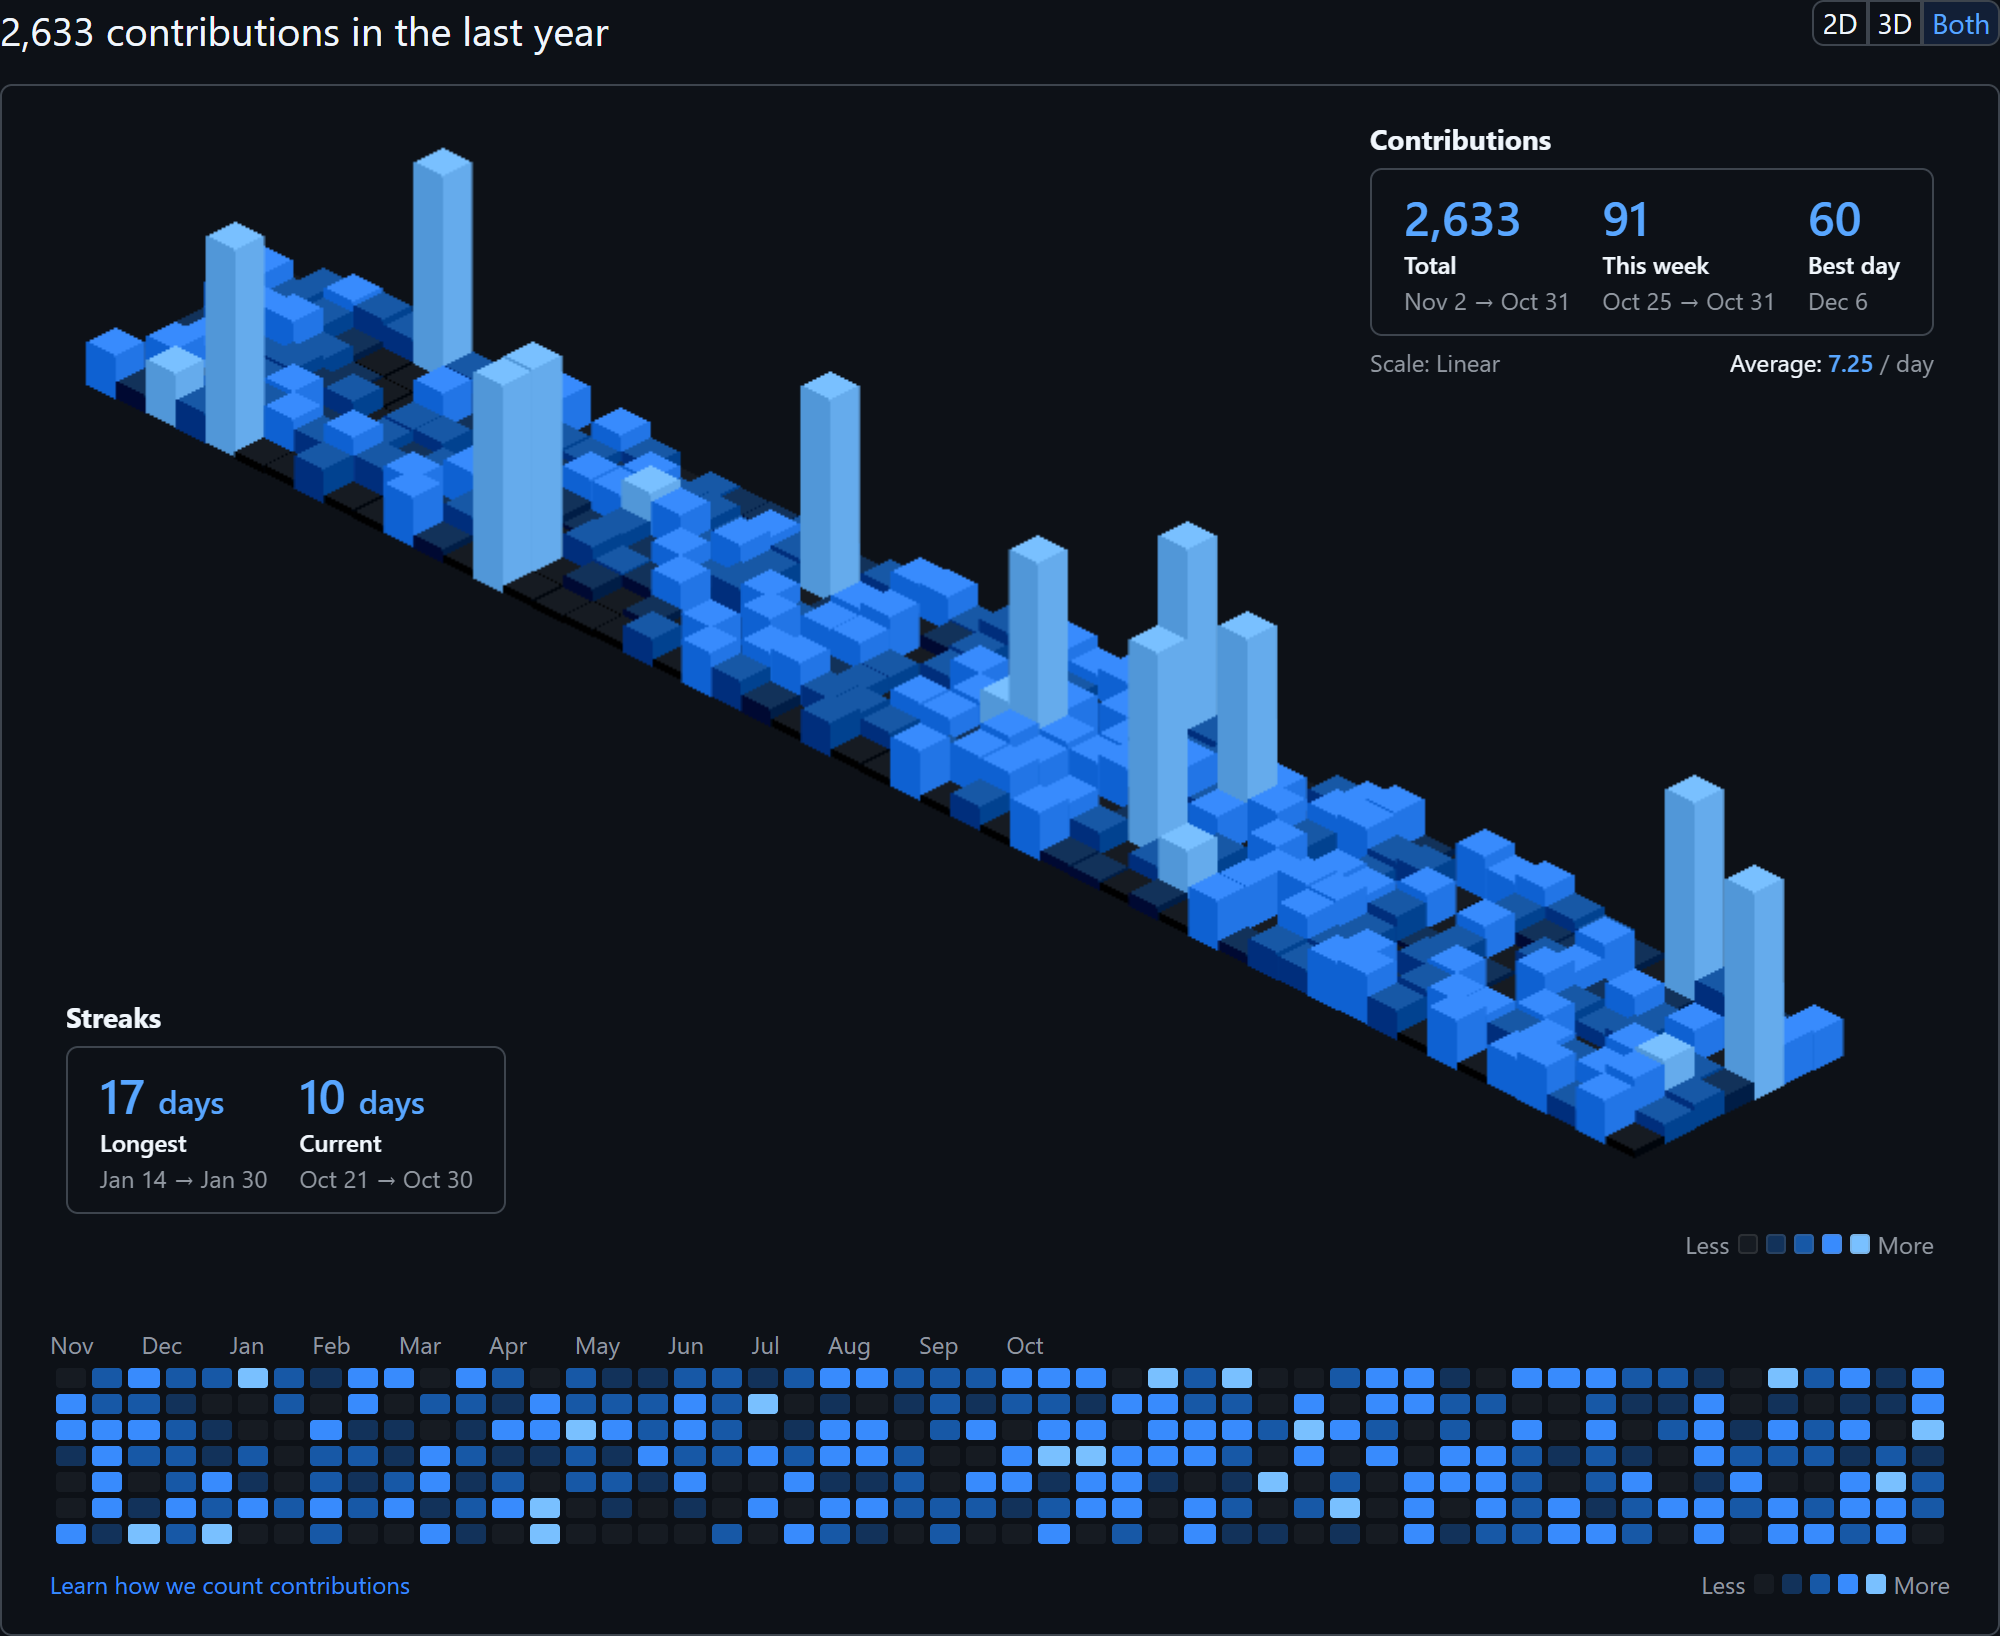
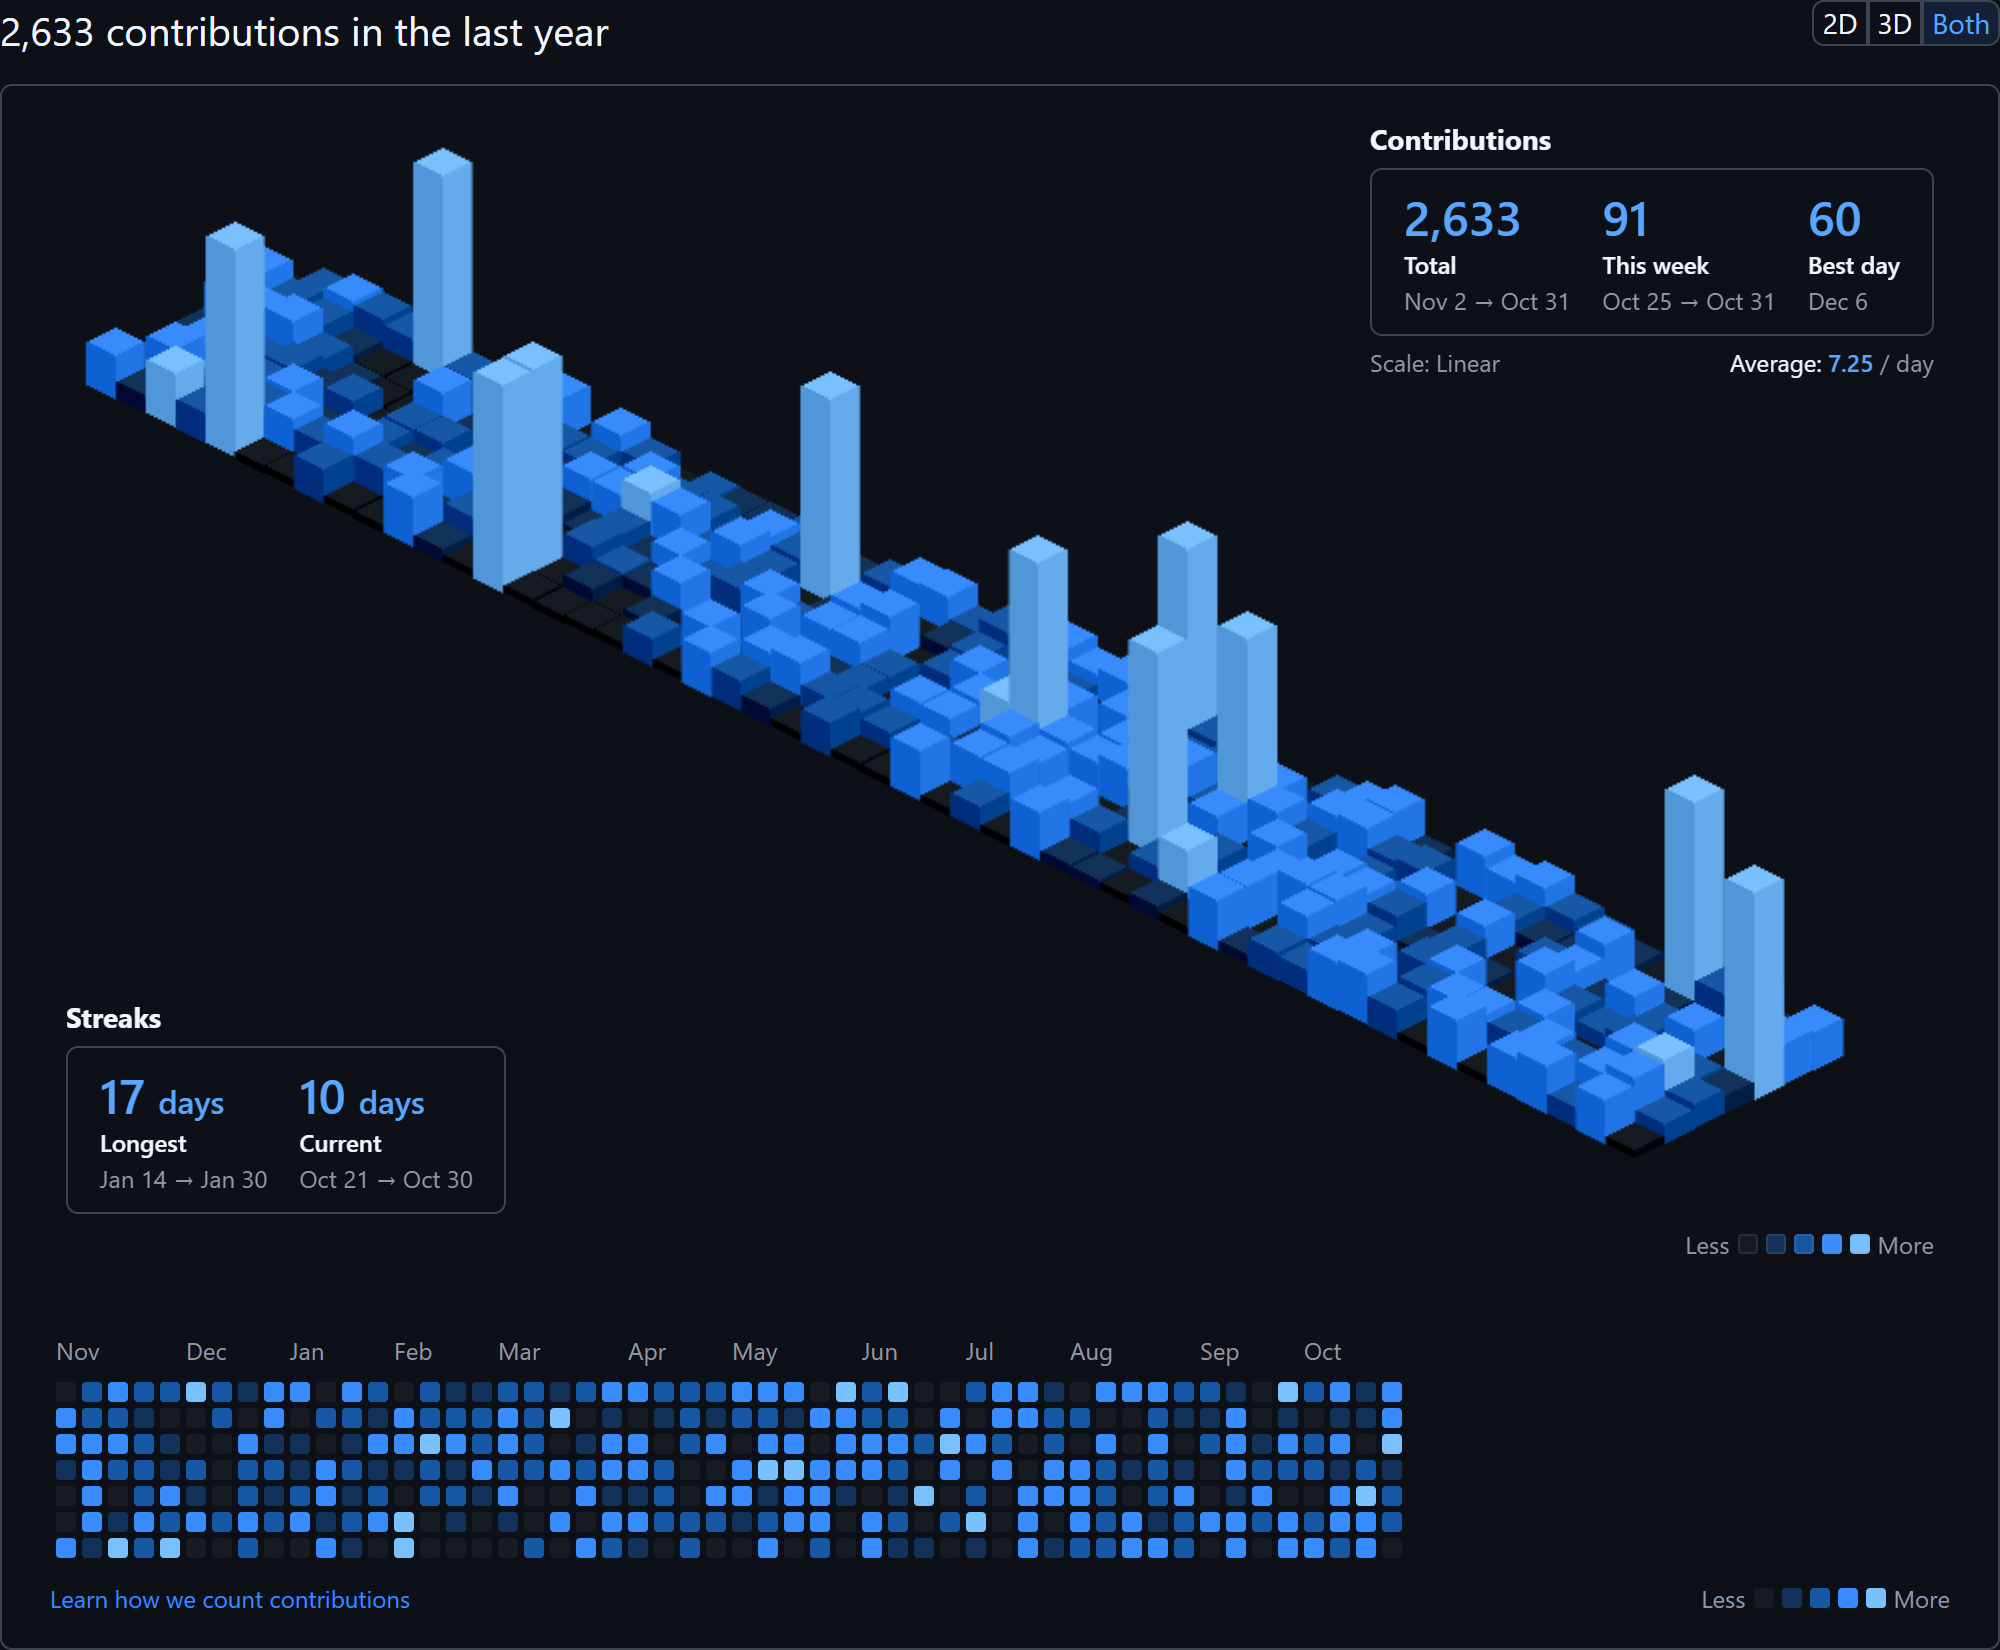
Keep contribution days square in README artwork

diff --git a/scripts/artwork/calendar.js b/scripts/artwork/calendar.js
@@ -17,6 +17,22 @@ export const sampleDays = Array.from({ length: 364 }, (_, i) => {
 })
 
 export const calendarHtml = (days = sampleDays) => {
+  const months = []
+  const monthFormat = new Intl.DateTimeFormat('en-US', {
+    month: 'short',
+    timeZone: 'UTC'
+  })
+  for (let i = 0; i < days.length; i += 7) {
+    const label = monthFormat.format(new Date(days[i].date))
+    if (months.at(-1)?.label === label) {
+      months.at(-1).weeks++
+    } else {
+      months.push({ label, weeks: 1 })
+    }
+  }
+  const monthHeaders = months
+    .map(({ label, weeks }) => `<th colspan="${weeks}">${label}</th>`)
+    .join('')
   const rows = Array.from(
     { length: 7 },
     (_, row) =>
@@ -42,8 +58,9 @@ export const calendarHtml = (days = sampleDays) => {
     <section class="js-yearly-contributions">
       <h2>${days.reduce((total, day) => total + day.count, 0).toLocaleString('en-US')} contributions in the last year</h2>
       <div class="chart-frame"><div class="js-calendar-graph">
-        <div class="months">Nov　　Dec　　Jan　　Feb　　Mar　　Apr　　May　　Jun　　Jul　　Aug　　Sep　　Oct</div>
-        <table class="js-calendar-graph-table"><tbody>${rows}</tbody></table>
+        <table class="js-calendar-graph-table">
+          <thead class="months"><tr>${monthHeaders}</tr></thead>
+          <tbody>${rows}</tbody></table>
         <div class="calendar-footer"><span>Learn how we count contributions</span>
           <div class="calendar-legend">Less ${legend} More</div></div>
         ${days.map((day, i) => `<tool-tip id="day-${i}">${day.count} contributions on ${day.date}</tool-tip>`).join('')}

diff --git a/scripts/artwork/fixture.css b/scripts/artwork/fixture.css
@@ -21,9 +21,11 @@ h5 { font-size: 14px; margin: 0; }
 button { cursor: pointer; }
 .chart-frame { border: 1px solid var(--fixture-border); border-radius: 6px; }
 .js-calendar-graph { padding: 16px 24px; }
-.js-calendar-graph-table { width: 100%; border-spacing: 3px; }
-.ContributionCalendar-day { width: 10px; height: 10px; border-radius: 2px; }
+/* Let the calendar keep its natural width so the days remain square. */
+.js-calendar-graph-table { border-spacing: 3px; }
+.ContributionCalendar-day { width: 10px; height: 10px; padding: 0; border-radius: 2px; }
 .months { font-size: 12px; color: var(--fixture-muted); }
+.months th { padding: 0 0 4px; font-weight: 400; text-align: left; }
 .calendar-footer { display: flex; justify-content: space-between; margin-top: 8px; font-size: 12px; }
 .calendar-footer > span { color: #388bfd; }
 .calendar-legend { display: flex; align-items: center; gap: 4px; color: var(--fixture-muted); }

diff --git a/scripts/render-artwork.js b/scripts/render-artwork.js
@@ -92,6 +92,17 @@ try {
     for (const file of script.js)
       await page.addScriptTag({ content: await read(`dist/${file}`) })
     await page.waitForSelector('#ic-height-scale-label')
+    const daySizes = await page.$$eval('td[data-date]', (nodes) =>
+      nodes.map((node) => {
+        const { width, height } = node.getBoundingClientRect()
+        return { width, height }
+      })
+    )
+    assert.equal(daySizes.length, sampleDays.length)
+    for (const { width, height } of daySizes) {
+      assert.equal(width, 10, 'Calendar days retain their 10px width')
+      assert.equal(height, width, 'Calendar days are square in the artwork')
+    }
     const section = await page.$('.js-yearly-contributions')
     const statsText = () =>
       page.$$eval('.ic-accent', (nodes) =>
